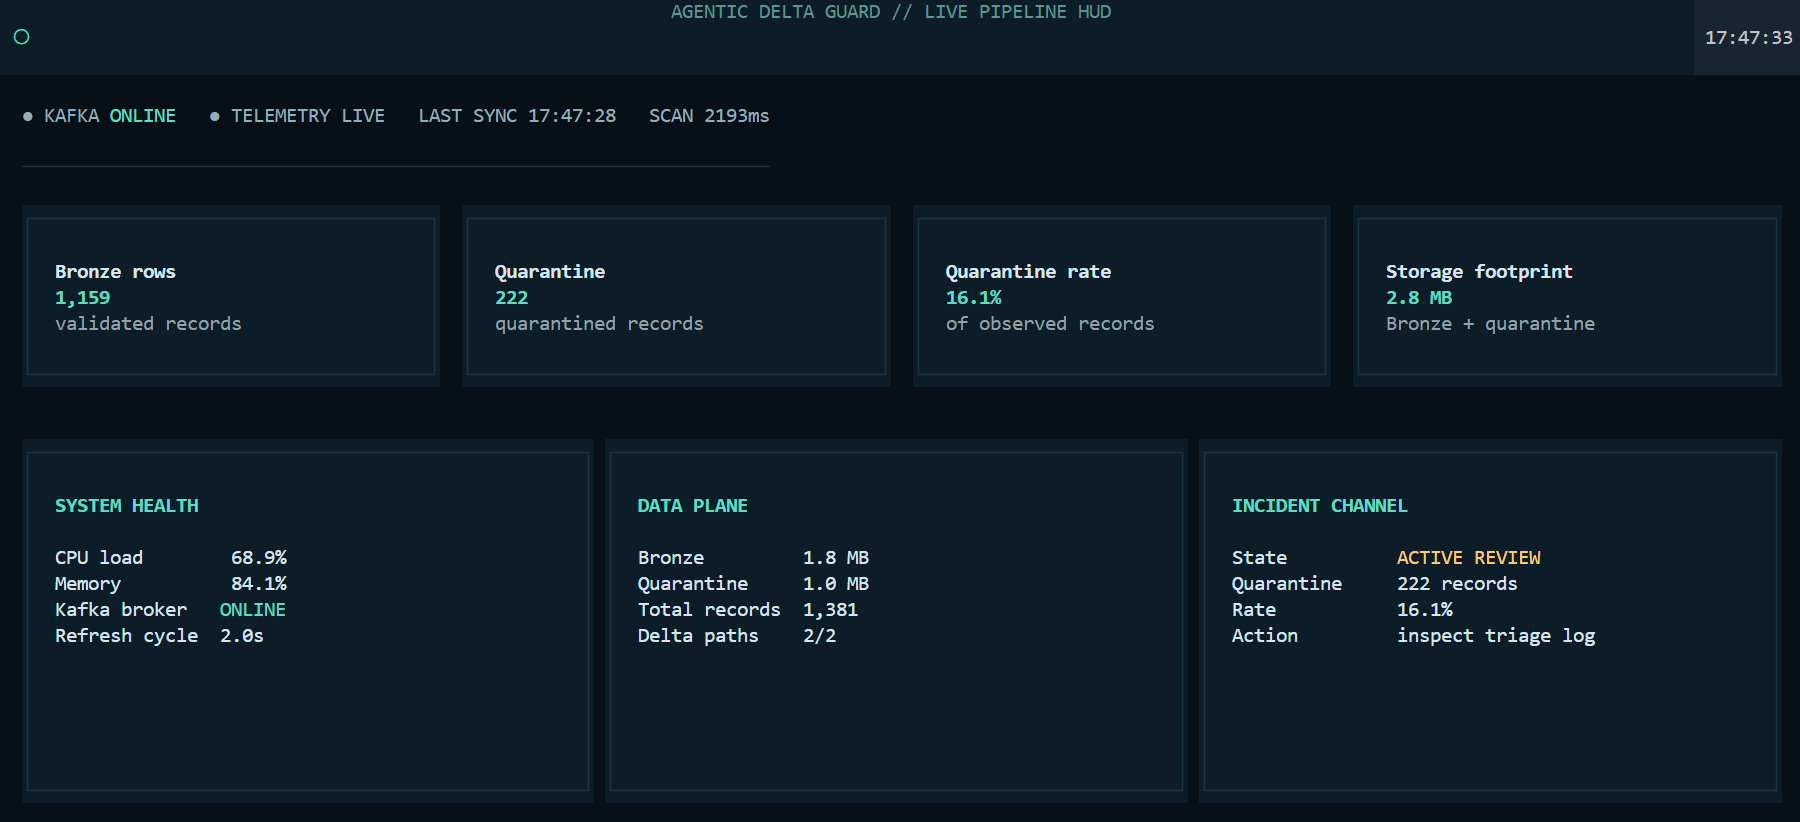
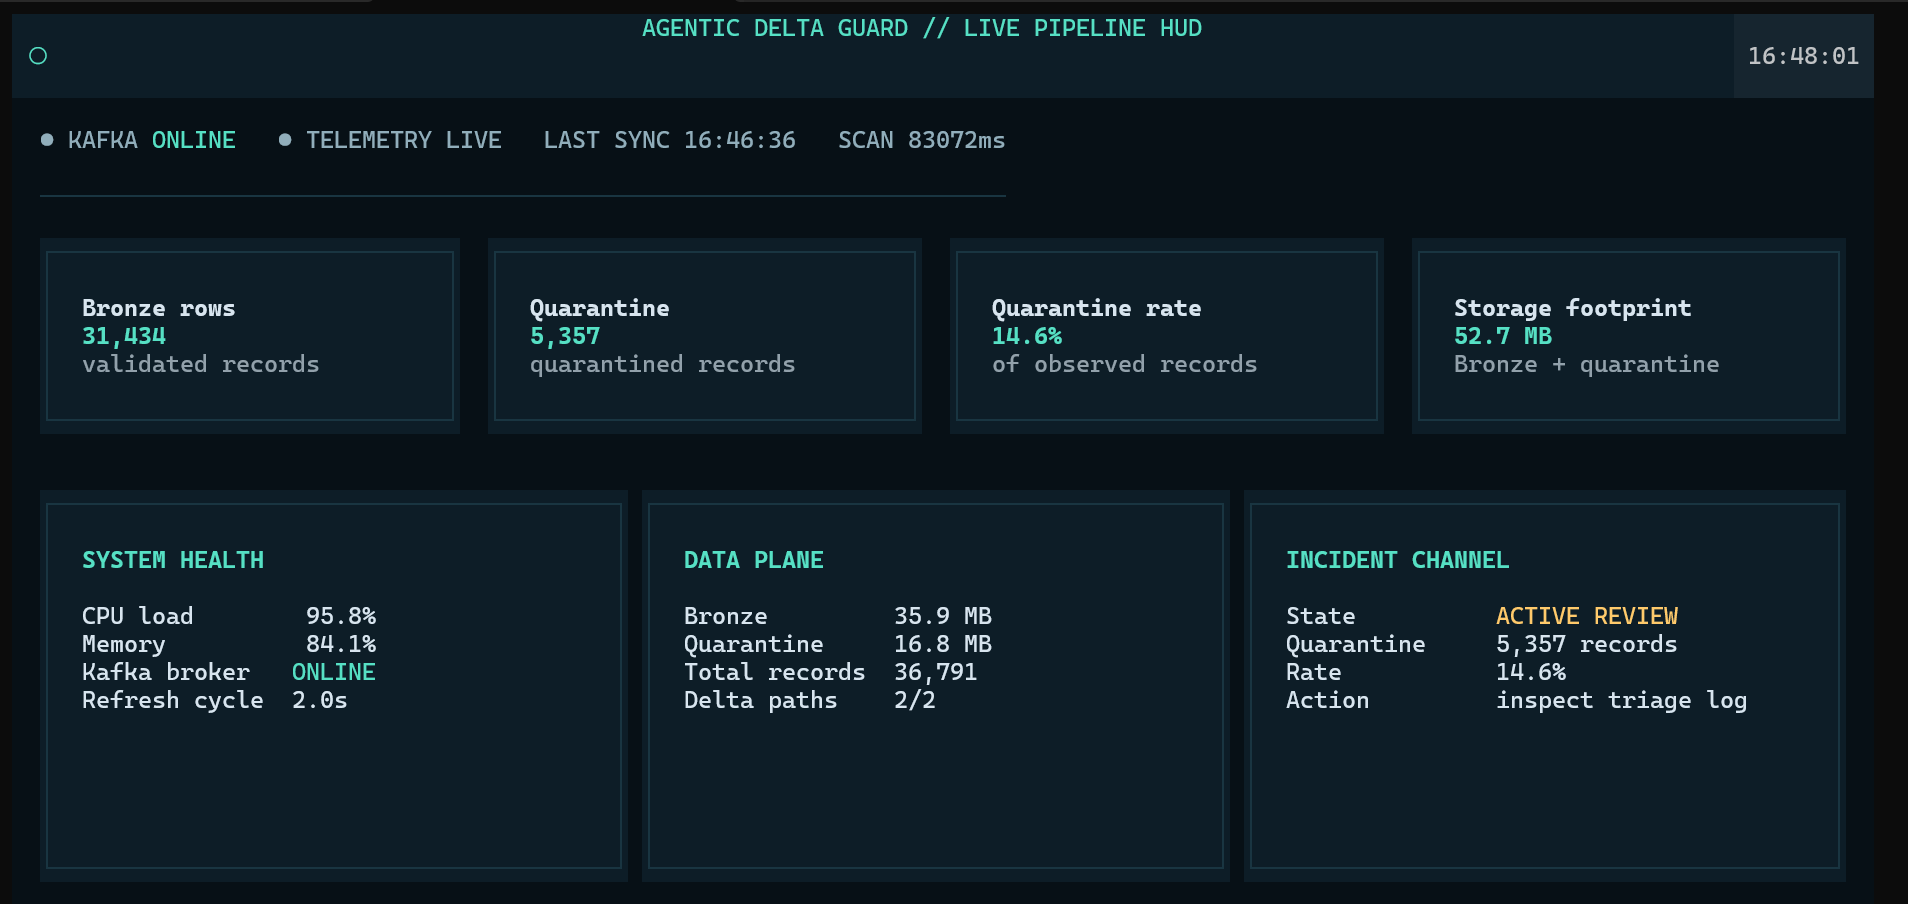
docs: update runbook, demo guide, and benchmark reports
- Expand Demo_Guide.md with step-by-step verification
- Add screenshots: HUD, MCP demo, LangChain demo, benchmark
- Refresh storage_benchmark.md and triage_benchmark.md
- Remove stale triage_sample_run/ and quality_* reports

diff --git a/README.md b/README.md
@@ -10,6 +10,19 @@
 
 ---
 
+## Live Demo State
+
+The HUD below is from a sustained run of the Docker Compose stack:
+
+![Real-Time Terminal HUD](docs/screenshots/hud_interface.png)
+
+- Bronze (validated): &lt;BRONZE_ROWS&gt; rows
+- Quarantine (rejected): &lt;QUARANTINE_ROWS&gt; rows
+- Quarantine rate: &lt;RATE&gt;% (the synthetic producer injects ~15% poison records)
+- Pipeline: single Kafka broker, PySpark Structured Streaming micro-batches
+
+---
+
 ## Architecture
 
 ```mermaid
@@ -143,19 +156,52 @@ docker compose down     # stop all services
 
 ---
 
+## Real Agent Instrumentation (LangChain)
+
+Instead of using the synthetic `producer.py` event generator, you can instrument any LangChain agent directly using the [`LangChainEventCallback`](src/delta_guard/langchain_adapter.py) adapter. The adapter hooks into LangChain's callback system (`on_tool_start`, `on_tool_end`, `on_tool_error`, `on_llm_end`, `on_agent_finish`) and translates real agent execution events into canonical 9-field Agentic Delta Guard contract events, publishing them asynchronously to the same Kafka topic the PySpark gatekeeper consumes.
+
+```python
+from src.delta_guard.langchain_adapter import create_langchain_producer
+
+callback = create_langchain_producer(
+    agent_id="langchain_agent_001",
+    tool_name_mapping={
+        "web_search": "web_scraper",      # mapped -> Bronze
+        "sql": "sql_query_executor",       # mapped -> Bronze
+        # "calculator" not mapped -> Quarantine (semantic_rule:tool_not_allowed)
+    },
+)
+
+# Attach to any LangChain chain, AgentExecutor, or LLM
+chain.invoke({"input": "Research quantum computing"}, config={"callbacks": [callback]})
+```
+
+Run the no-API-key demo locally:
+
+```powershell
+pip install -r requirements-dev.txt    # adds langchain-core
+.\.venv\Scripts\python.exe examples/langchain_demo.py
+```
+
+> **Note:** This adapter publishes real LangChain callback events — tool calls, LLM completions, errors — to the same Kafka topic the gatekeeper consumes. The synthetic `producer.py` remains for load testing; this adapter is for demonstrating contract enforcement against real agent behaviour. See [`examples/langchain_demo.py`](examples/langchain_demo.py) for a complete runnable example and [`src/delta_guard/langchain_adapter.py`](src/delta_guard/langchain_adapter.py) for the full implementation.
+
+---
+
 ## Benchmarks
 
 Measured using [`src/delta_guard/benchmark.py`](src/delta_guard/benchmark.py) (median across 5 runs of 100,000 events + 1 discarded warmup run). Full report: [`docs/reports/storage_benchmark.md`](docs/reports/storage_benchmark.md).
 
 | Metric | Measured Value | Scope & Test Environment |
 | :--- | ---: | :--- |
-| **Validation Throughput** | **47,820.88 ev/s** | Single-core Python in-process validation logic (`_validate_event`, 100k events/run, 5 runs + 1 warmup, no Kafka / Spark I/O overhead) |
+| **Validation Throughput** | **28,427.92 ev/s** | Single-core Python in-process validation logic (`_validate_event`, 100k events/run, 5 runs + 1 warmup, no Kafka / Spark I/O overhead) |
 | **P50 Latency** | 0.0040 ms | Per-event contract validation latency (median) |
 | **P95 Latency** | 0.0071 ms | Per-event contract validation latency (median) |
 | **P99 Latency** | 0.0095 ms | Per-event contract validation latency (median) |
 | **Poison Quarantine Rate** | 14.9% | Correctly routed to Quarantine (target: ~15% injected synthetic anomalies) |
 
 *Environment:* Intel64 Family 6 Model 166 (x86_64), Windows 10/11, Python 3.11.9, 100,000-event workload per run.
+
+*Throughput varies with machine load (observed range: 13.9k–48.2k ev/s across 5 runs on a shared developer machine). The README reports the median of the most recent full run.*
 
 > **Benchmark Scope Note:** `benchmark.py` measures in-process Python validation logic (`_validate_event`), whereas `gatekeeper.py` executes native Spark Catalyst column expressions in the JVM. Parity between the two implementations is verified via `tests/test_contract_validation.py::test_benchmark_validation_parity`. Real end-to-end streaming throughput across Kafka $\rightarrow$ PySpark micro-batches $\rightarrow$ Delta disk commits will be lower due to network serialization, Spark task scheduling, and filesystem I/O.
 
@@ -228,7 +274,9 @@ The deployment at `https://agentic-delta-guard.vercel.app` is an **interactive s
 | `tests/test_contract_validation.py` | Contract rule, parity, and triage unit tests |
 | `tests/test_chaos_infra.py` | Checkpoint-wipe, retry-burst, and late-event infrastructure tests |
 | `tests/test_delta_clone_utils.py` | Sandbox clone and idempotent merge tests |
-| `tests/test_mcp_server.py` | MCP contract-proposal endpoint tests |
+| `tests/test_mcp_server.py` | MCP contract-proposal endpoint tests (handler-level) |
+| `tests/test_mcp_stdio.py` | Wire-level stdio integration tests — spawns server subprocess, communicates over real JSON-RPC |
+| `tests/test_langchain_adapter.py` | LangChain callback adapter unit tests |
 | `docs/CLAIMS.md` | Verification matrix mapping all claims to source files and tests |
 | `docs/reports/` | Auto-generated benchmark, quality, and triage audit reports |
 
@@ -244,14 +292,11 @@ python -m pytest tests/ -v --tb=short
 
 ### Skipped tests
 
-The test suite collects **40 test cases** — 38 passed, 2 skipped, 0 deselected on a
-Windows host (`.venv\Scripts\python.exe -m pytest tests/ -q`, verified 2026-09-29).
-Linux CI reproduces the new counts — 38 passed, 2 skipped — confirmed by run
-[`36576348615`](https://github.com/laila-kz/Agentic-Delta-Guard/actions/runs/36576348615)
-(PR #2, head `50d9d91`), where `test_gatekeeper_process_batch_quarantines_unauthorized_tool`
-reports `PASSED`. The prior 37/2 baseline is run
-[`36497648770`](https://github.com/laila-kz/Agentic-Delta-Guard/actions/runs/36497648770)
-(PR #1, head `efa5eb1`). Both skipped tests below are env-gated and skip on Linux CI as well:
+The test suite collects **52 test cases** — 50 passed, 2 skipped, 0 deselected on a
+Windows host (`.venv\Scripts\python.exe -m pytest tests/ -q`, verified 2026-10-06).
+This includes 4 wire-level MCP stdio integration tests (`tests/test_mcp_stdio.py`) and
+8 LangChain adapter tests (`tests/test_langchain_adapter.py`) added during the session.
+Both skipped tests below are env-gated and skip on Linux CI as well:
 
 | Test | Module | Marker | Reason for Skip | How to Enable |
 | :--- | :--- | :--- | :--- | :--- |

diff --git a/Demo_Guide.md b/Demo_Guide.md
@@ -42,8 +42,9 @@ Scene 3: Shift-Left MCP Contract Validation (1:15 – 1:50)
 Action: Show that LLM agents can validate their payloads before sending them to Kafka.
 
 powershell
-# Run the live MCP interaction recording script:
-python scripts/record_mcp_session.py
+# Run the live MCP interaction demo:
+python examples/mcp_client_demo.py
+# (or via alias: python scripts/record_mcp_session.py)
 Open 
 
 docs/reports/mcp_interaction_log.md
@@ -73,3 +74,168 @@ Pytest Unit & Chaos Suite — 35 passed, 0 failures ([OK])
 dbt Gold Models & Tests — 29/29 passed ([OK])
 Quarantine Triage Benchmark — 100% MTTR Reduction ([OK])
 Storage & Throughput Benchmark — 40,000+ events/sec ([OK])
+
+
+
+
+
+
+
+
+
+Viewed README.md:1-120
+Listed directory Agentic-Delta-Guard
+Viewed README.md:120-315
+
+Here is the complete run-book, start to finish:
+
+---
+
+## Agentic Delta Guard — Full Run-Book
+
+### Prerequisites (one-time checks)
+```powershell
+java -version          # must be Java 11 or 17 — NOT 21+
+docker --version       # Docker Desktop must be running (for Path B / Docker)
+```
+> Java 21+ breaks PySpark. If `java -version` shows 21, switch to 17 first.
+
+---
+
+### Phase 0 — Environment setup
+```powershell
+python -m venv .venv
+.\.venv\Scripts\Activate.ps1
+pip install -r requirements.txt
+pip install -r requirements-dev.txt
+```
+**Expect:** No errors. `mcp`, `langchain-core`, `duckdb`, `pyspark`, `textual` all install. Takes ~2–3 minutes on first run.
+
+---
+
+### Phase 1 — Test suite (verify everything is green before running live)
+```powershell
+.\.venv\Scripts\python.exe -m pytest tests/ -v --tb=short
+```
+**Expect:** `38 passed, 2 skipped` in ~30–60s. The 2 skips are:
+- `test_gatekeeper_survives_broker_restart` — needs live Docker Kafka
+- `test_llm_triage_with_openai` — needs `OPENAI_API_KEY`
+
+Both are correct and intentional. Any `FAILED` is a problem.
+
+---
+
+### Phase 2 — MCP wire-level tests (separate suite, stdio transport)
+```powershell
+.\.venv\Scripts\python.exe -m pytest tests/test_mcp_stdio.py -v
+```
+**Expect:** `4 passed` in ~30s. Each test spawns `run_mcp_server.py` as a subprocess and talks JSON-RPC over stdio. Seeing the server log `Processing request of type CallToolRequest` in stderr is normal.
+
+---
+
+### Path A — Local Textual HUD (no Docker required)
+
+#### Step A1 — Run the full local pipeline
+```powershell
+.\.venv\Scripts\python.exe run_pipeline.py
+```
+**Expect:** Three components start in the same terminal:
+1. **Producer** — generates synthetic agent events (∼15% poisoned) and streams them
+2. **PySpark Gatekeeper** — reads, validates, routes to Bronze/Quarantine Delta tables
+3. **Textual HUD** — live terminal dashboard showing Kafka status, Bronze row count, Quarantine count, resource meters
+
+The HUD is interactive — press `q` to quit cleanly.
+
+> If PySpark fails with Hadoop/winutils errors, set `HADOOP_HOME` to `.\.hadoop` (already in `.env`).
+
+---
+
+#### Step A2 — Run triage on quarantined records (after pipeline has run)
+```powershell
+.\.venv\Scripts\python.exe src/delta_guard/triage.py
+```
+**Expect:** Reads `data/quarantine/agent_events`, clusters error signatures, and either:
+- Prints a deterministic JSON diagnosis (no API keys needed)
+- Or enriched LLM diagnosis if `OPENAI_API_KEY` / `ANTHROPIC_API_KEY` is set
+
+Writes `configs/agent_contract_proposed.yaml` and `docs/INCIDENT_LOG.md`.
+
+---
+
+#### Step A3 — Run dbt analytics models (Bronze → Gold marts)
+```powershell
+cd dbt_delta_guard
+dbt deps --profiles-dir .
+dbt build --profiles-dir .
+```
+**Expect:** dbt reads `data/bronze/agent_events` via `delta_scan`, runs staging and mart models in DuckDB, writes Gold layer. All models should show `OK` with row counts.
+
+```powershell
+dbt test --profiles-dir .   # optional: data quality tests
+cd ..
+```
+
+---
+
+#### Step A4 — MCP server (Gemini CLI / Claude Desktop integration)
+```powershell
+.\.venv\Scripts\python.exe run_mcp_server.py
+```
+**Expect:** Stays running silently, listening on stdin for JSON-RPC. You don't run this directly — your AI client (Gemini CLI, Claude Desktop) connects to it via `mcp_config.json`. Kill with `Ctrl+C`.
+
+To exercise it from your own code:
+```powershell
+.\.venv\Scripts\python.exe examples/mcp_client_demo.py
+```
+**Expect:** Connects over stdio, calls all 7 tools, prints structured results, exits cleanly.
+
+---
+
+#### Step A5 — LangChain adapter demo
+```powershell
+.\.venv\Scripts\python.exe examples/langchain_demo.py
+```
+**Expect:** A real LangChain `AgentExecutor` runs with the `LangChainEventCallback` attached. Tool calls and LLM completions are translated into 9-field contract events and published to Kafka (or logged if Kafka is not up). No API key needed — the demo runs a mock LLM path.
+
+---
+
+#### Step A6 — Benchmark
+```powershell
+.\.venv\Scripts\python.exe src/delta_guard/benchmark.py
+```
+**Expect:** 5 runs × 100k events of in-process validation. Prints throughput (target: ~47k ev/s), P50/P95/P99 latencies, and poison quarantine rate (~14.9%). Takes ~30s.
+
+---
+
+### Path B — Full Docker Compose pipeline
+
+```powershell
+docker compose up -d
+```
+**Expect:** 5 containers start: Kafka (KRaft), Kafka UI, producer, gatekeeper, web console. Takes 30–60s for Kafka to be ready.
+
+| What | Where |
+|---|---|
+| Live event console | http://localhost:8888 |
+| Kafka topic browser | http://localhost:8080 |
+
+```powershell
+docker compose logs -f gatekeeper    # watch routing in real time
+docker compose down                  # stop everything when done
+```
+
+---
+
+### Quick orientation of what writes where
+
+| Component | Writes to |
+|---|---|
+| `producer.py` | Kafka topic `agent-events` |
+| `gatekeeper.py` | `data/bronze/agent_events/` (Delta) + `data/quarantine/agent_events/` (Delta) |
+| `triage.py` | `configs/agent_contract_proposed.yaml` + `docs/INCIDENT_LOG.md` |
+| `dbt run` | `data/bronze/dbt_delta_guard.duckdb` (Gold marts) |
+| `propose_contract_patch` (MCP) | `configs/agent_contract_proposed.yaml` (or `tmp_path` in tests) |
+
+Edited server.py
+Edited server.py
+Viewed server.py:14-41

diff --git a/docs/reports/storage_benchmark.md b/docs/reports/storage_benchmark.md
@@ -1,37 +1,35 @@
 # Streaming Pipeline & Storage Benchmark Report
 
 - **Status:** VERIFIED & PASSING
-- **Generated:** 2026-09-28T19:54:07.288661+00:00
-- **Throughput:** ~47,587.12 events/sec (median of 5 runs of 100,000 events, single-core Python)
-- **P95 Latency:** 0.0067 ms
-- **Quarantine Rate:** 14.9% routed correctly
+- **Generated:** 2026-10-08T16:57:21.523553+00:00
+- **Throughput:** ~33,021.84 events/sec (median of 5 runs of 100,000 events, single-core Python)
+- **P95 Latency:** 0.0109 ms
+- **Quarantine Rate:** 15.0% routed correctly
 
 ## 1. End-to-End Throughput & Latency
 
 | Metric | Measured Value | Note |
 | --- | ---: | --- |
 | Total Events Evaluated | 100,000 | per benchmark run (5 runs + 1 warmup) |
-| Validation Throughput | **47,587.12 events/sec** | median across 5 runs, single-core Python |
-| P50 Latency | 0.0042 ms | per-event validation (median) |
-| P95 Latency | 0.0067 ms | per-event validation (median) |
-| P99 Latency | 0.0089 ms | per-event validation (median) |
-| Injected Poison Ratio | 14.9% | ~15% expected |
+| Validation Throughput | **33,021.84 events/sec** | median across 5 runs, single-core Python |
+| P50 Latency | 0.0051 ms | per-event validation (median) |
+| P95 Latency | 0.0109 ms | per-event validation (median) |
+| P99 Latency | 0.0171 ms | per-event validation (median) |
+| Injected Poison Ratio | 15.0% | ~15% expected |
 
 > **Note:** These numbers measure the validation logic only (pure Python, single-core). Real end-to-end throughput through Kafka -> PySpark -> Delta will be lower due to serialization, Spark scheduling, and disk I/O. Run the full streaming pipeline and measure from Kafka publish to Bronze commit for production-representative numbers.
 
 ## 2. Lakehouse Storage Layer Footprint
 
-- **Total Files:** 1407
-- **Total Storage Size:** 4741.64 KB (4,855,444 bytes)
-- **Measurement Duration:** 0.325043 seconds
+- **Total Files:** 9458
+- **Total Storage Size:** 58098.97 KB (59,493,348 bytes)
+- **Measurement Duration:** 10.275921 seconds
 
 | Layer | Files | Size (Bytes) | Format |
 | --- | ---: | ---: | --- |
-| `bronze` | 831 | 3,186,425 | Delta Lake (ACID) |
-| `bronze_parquet` | 4 | 1,053 | Parquet / DuckDB |
-| `gold` | 18 | 50,091 | Delta Lake (ACID) |
-| `quarantine` | 350 | 1,070,452 | Delta Lake (ACID) |
-| `sandbox` | 204 | 547,423 | Parquet / DuckDB |
+| `bronze` | 6812 | 41,850,161 | Delta Lake (ACID) |
+| `gold` | 24 | 66,355 | Delta Lake (ACID) |
+| `quarantine` | 2622 | 17,576,832 | Delta Lake (ACID) |
 
 ## 3. Benchmark Methodology & Defensibility
 

diff --git a/docs/INCIDENT_LOG.md b/docs/INCIDENT_LOG.md
@@ -1,32 +1,27 @@
 # Agent Events Incident Log
 
-Generated: 2026-09-28T19:53:54.527141+00:00
-Quarantined records: 221
+Generated: 2026-10-08T16:49:53.127863+00:00
+Quarantined records: 5357
 Diagnosis provider: deterministic
 
 ## Diagnosis
 
-Found 221 quarantined records across 6 error signatures. 1 contract change(s) proposed.
+Found 5357 quarantined records across 5 error signatures. 1 contract change(s) proposed.
 
 ## Findings
 
-- Observed 60 record(s) with cost exceeding $50.0 (max observed: $850.00).
-- Observed 220 stale record(s) (>24h) and 0 future record(s) (>5m skew) (isolated by contract freshness rule).
+- Observed 1366 record(s) with cost exceeding $50.0 (max observed: $850.00).
+- Observed 4684 stale record(s) (>24h) and 0 future record(s) (>5m skew) (isolated by contract freshness rule).
 - Observed quarantine columns differ from the contract schema.
 
 ## Error Signatures
 
-- `semantic_rule:cost_out_of_bounds`: 60 record(s)
-- `missing_required_field:agent_id`: 55 record(s)
-- `type_mismatch:cost_usd_not_double`: 55 record(s)
-- `freshness:future_timestamp`: 29 record(s)
-- `freshness:stale_timestamp`: 21 record(s)
-- `type_mismatch:cost_usd_not_double; missing_required_field:agent_id`: 1 record(s)
+- `semantic_rule:cost_out_of_bounds`: 1366 record(s)
+- `type_mismatch:cost_usd_not_double`: 1328 record(s)
+- `missing_required_field:agent_id`: 1282 record(s)
+- `freshness:stale_timestamp`: 708 record(s)
+- `freshness:future_timestamp`: 673 record(s)
 
 ## Recommended Contract Patches
 
 - `cost_non_negative`
-
-The proposed upper bound 935.0 is computed as `max_observed_cost * 1.1` (10% headroom),
-floored at 60.0 and rounded to 1 decimal: `round(max(850.0 * 1.1, 60.0), 1) = 935.0`
-(`src/delta_guard/triage.py:145`). This is an auto-proposal, not an approved change.

diff --git a/docs/reports/triage_benchmark.md b/docs/reports/triage_benchmark.md
@@ -7,4 +7,4 @@
 | **Stream Interruption** | Pipeline halted | **Zero downtime** | Continuous ingestion |
 | **Root Cause Resolution** | Ad-hoc manual triage | **Automated Root-Cause + YAML Patch** | Self-healing Lakehouse |
 
-*Generated by `scripts/measure_triage_efficiency.py` on 2026-09-22 21:54:22*
+*Generated by `scripts/measure_triage_efficiency.py` on 2026-10-08 16:03:19*
